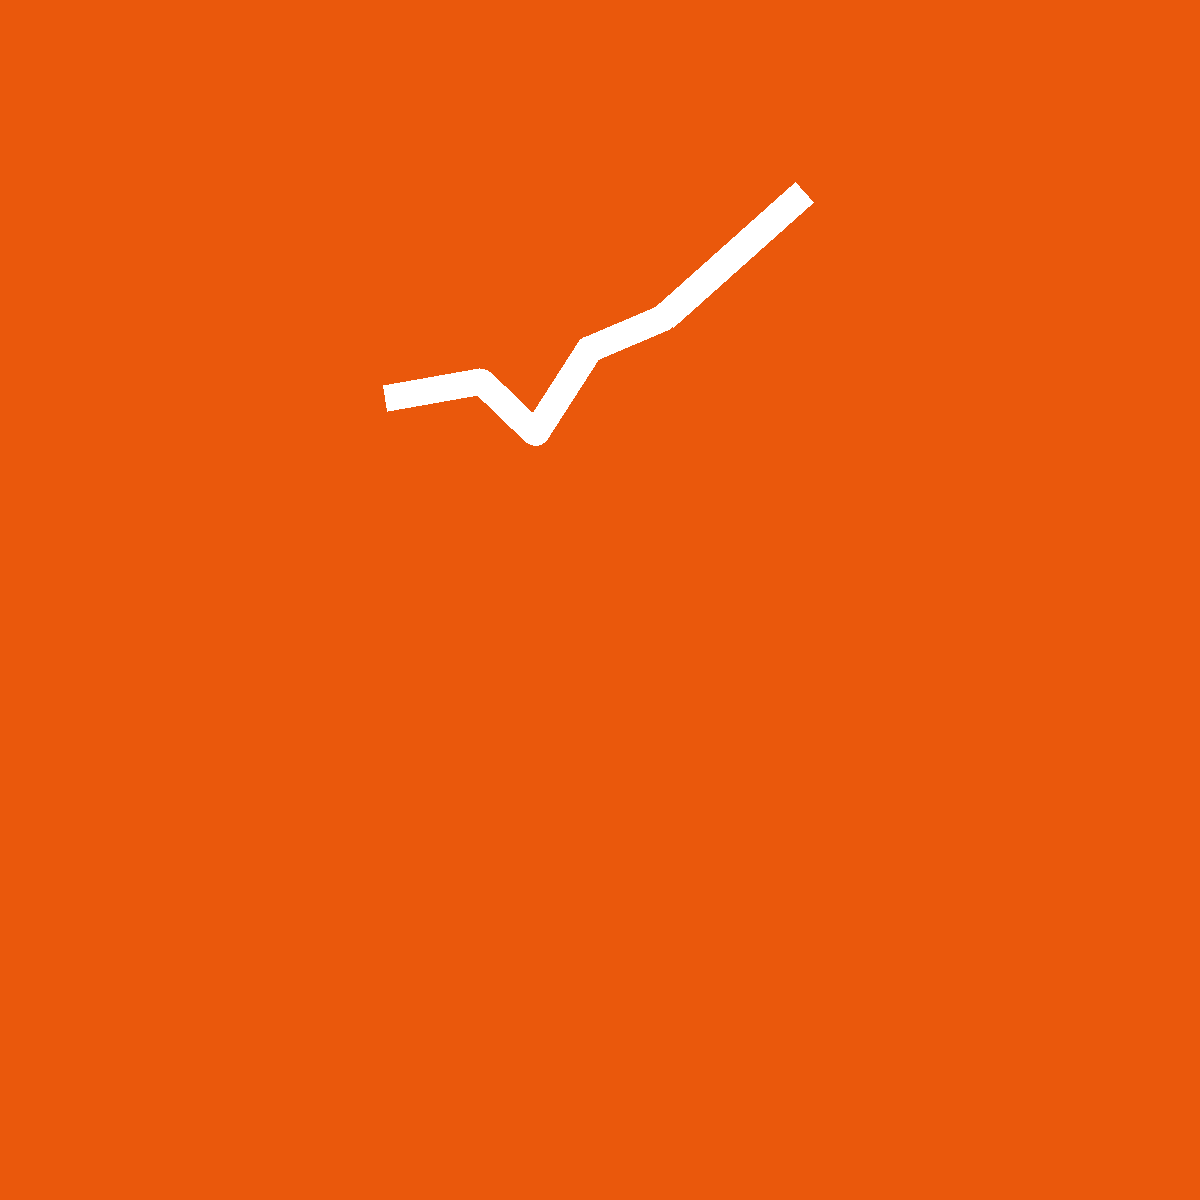
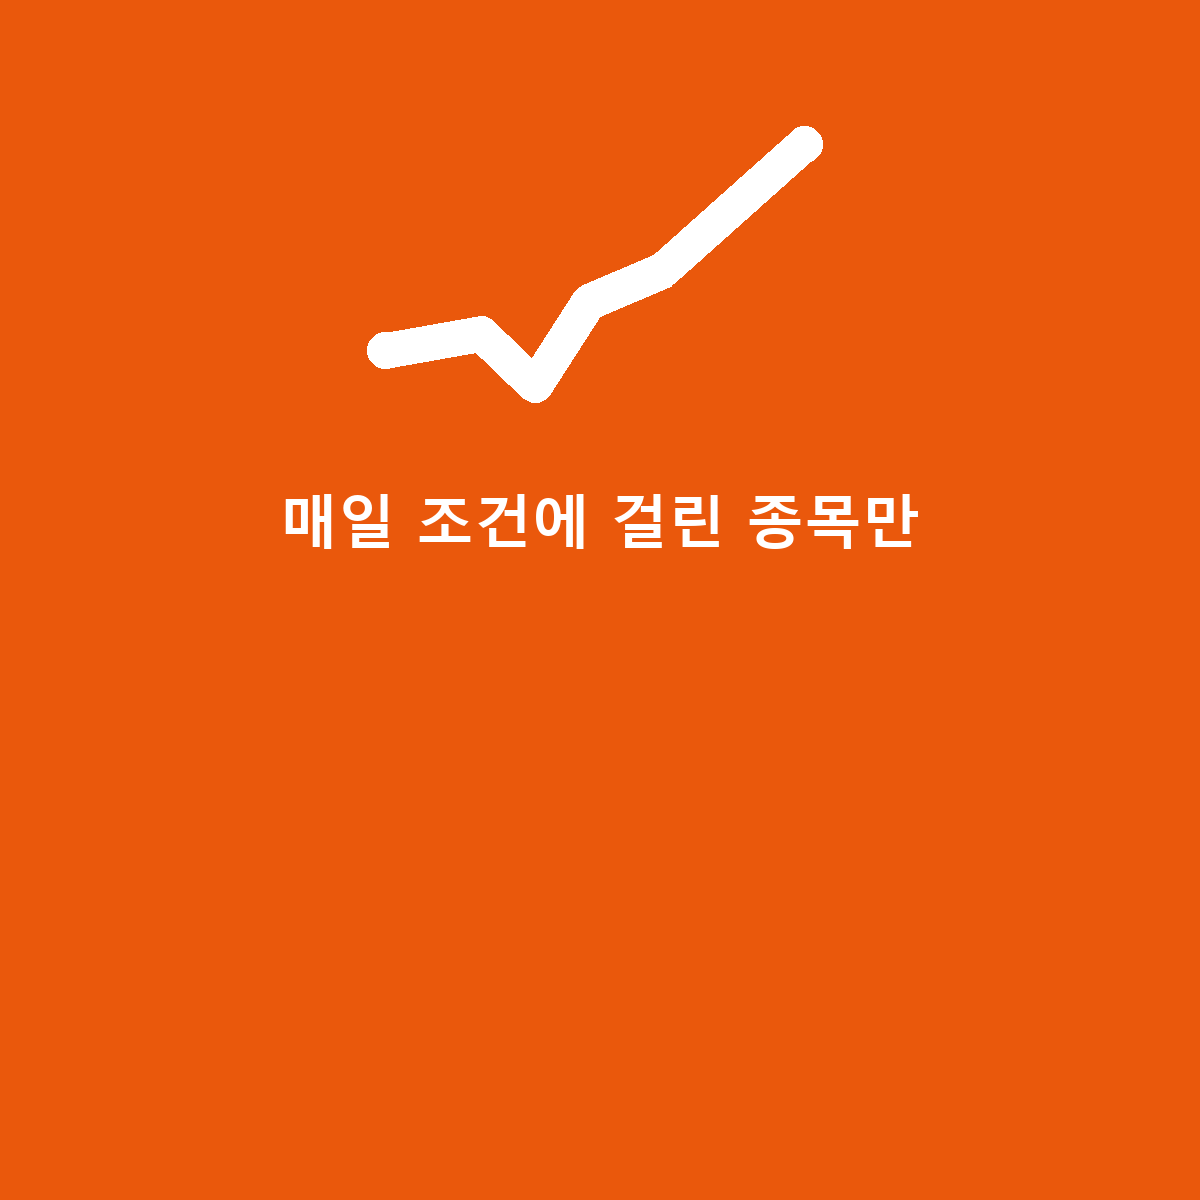
feat: 앱 커버에 한 줄 넣고 표식을 굵게 한다
표식만 두니 처음 온 사람이 무엇을 하는 곳인지 알려면 아래로 내려가야
했다. '매일 조건에 걸린 종목만' 한 줄을 넣는다.

소개 칸에 있는 문장을 그대로 쓰지 않는다. 커버 바로 아래가 소개라
같은 말이 두 번 나오면 읽는 사람이 두 번 읽게 된다.

표식 굵기를 0.13 에서 0.17 로 올린다. 앱이 커버에 어두운 막을 씌워서
흰 선이 회색으로 눌렸다. 색으로는 더 밝게 만들 수 없다. 앱 글자는 막
위에 그려지고 커버는 막 아래에 깔리기 때문이다. 면적으로 버티는 수밖에
없어 굵기를 올린다.

선 끝에 둥근 마감을 더한다. joint="curve" 는 이음매만 둥글게 하고 양
끝은 각진 채로 두어 잘린 것처럼 보였다.

Changed region(s): [[0.3083, 0.0925, 0.6783, 0.37], [0.2158, 0.4008, 0.4933, 0.4625], [0.5242, 0.4008, 0.7708, 0.4625]]

diff --git a/scripts/make_blog_images.py b/scripts/make_blog_images.py
@@ -5,7 +5,7 @@
 늘려 쓰면 글자가 뭉개지거나 잘리므로 자리마다 따로 그린다.
 
   타이틀      966x300   PC 블로그 홈 맨 위 띠
-  앱 커버     1200x1200 블로그 앱에서 처음 보이는 그림 (글자 없음)
+  앱 커버     1200x1200 블로그 앱에서 처음 보이는 그림
   프로필      이미 assets/avatar.png 에 있다 (make_avatar.py)
 
 **타이틀은 오른쪽 400px 가 비어야 한다.** 네이버가 그 자리에 블로그
@@ -35,6 +35,8 @@ BRAND = "종목노트"
 EYEBROW = "장 마감 후 매일 자동 계산"
 TAGLINE = "매일 조건에 걸린 종목만"
 FOOTER = "종목 추천이 아닙니다 · stage2.kr"
+# 앱 커버에 넣는 한 줄. 소개 칸과 겹치지 않게 짧게 둔다.
+COVER_LINE = "매일 조건에 걸린 종목만"
 
 # 네이버가 블로그 이름을 겹쳐 찍는 자리. 여기는 비워 둔다.
 NAME_ZONE = 400
@@ -44,7 +46,7 @@ DIVIDER = 3
 DIVIDER_COLOR = (214, 208, 197)
 
 
-def _mark(d, cx, cy, scale, color):
+def _mark(d, cx, cy, scale, color, thick=0.13):
     """아바타와 같은 표식 — 바닥을 다지다 위로 뚫고 나가는 선.
 
     프로필 사진과 배너에 같은 모양이 있어야 한 계정으로 읽힌다.
@@ -52,7 +54,12 @@ def _mark(d, cx, cy, scale, color):
     pts = [(-1.00, 0.18), (-0.55, 0.10), (-0.30, 0.34), (-0.05, -0.05),
            (0.30, -0.20), (0.95, -0.78)]
     xy = [(cx + x * scale, cy + y * scale) for x, y in pts]
-    d.line(xy, fill=color, width=max(6, int(scale * 0.13)), joint="curve")
+    w = max(6, int(scale * thick))
+    d.line(xy, fill=color, width=w, joint="curve")
+    # 끝을 둥글게 막아 선이 잘린 것처럼 보이지 않게 한다.
+    r = w / 2
+    for x, y in (xy[0], xy[-1]):
+        d.ellipse((x - r, y - r, x + r, y + r), fill=color)
 
 
 def title_image():
@@ -94,7 +101,7 @@ def title_image():
 def cover_image():
     """블로그 앱 커버. 1200x1200.
 
-    **글자를 넣지 않는다.** 앱이 커버 위에 블로그명·소개·방문수·프로필을
+    **블로그명을 넣지 않는다.** 앱이 커버 위에 블로그명·소개·방문수·프로필을
     직접 얹는다. 여기에 '종목노트'를 또 그리면 같은 글자가 두 번 나오고
     서로 겹친다. 실제로 그렇게 나왔다.
 
@@ -108,12 +115,24 @@ def cover_image():
     정사각으로 만드는 이유는 기기마다 잘리는 비율이 달라서다. 가로로 길게
     만들면 좁은 화면에서 좌우가 잘려 표식이 날아간다. 정사각에 여백을
     넉넉히 두면 어느 쪽으로 잘려도 표식이 남는다.
+
+    한 줄만 넣는다. 표식만 두면 처음 온 사람이 무엇을 하는 곳인지 알려면
+    아래로 내려가야 한다. 다만 소개 칸에 있는 말을 그대로 쓰면 같은 말을
+    두 번 읽게 되므로 짧은 쪽을 고른다.
+
+    표식은 흰색이 최선이다. 앱이 커버에 어두운 막을 씌워서 무슨 색을 써도
+    한 단계 눌리는데, 흰색이 가장 밝게 남는다. 크림으로 바꾸면 오히려 더
+    탁해진다. 대신 굵기를 올려 면적으로 버틴다.
     """
     S = 1200
     img = Image.new("RGB", (S, S), card.ACCENT)
     d = ImageDraw.Draw(img)
-    # 위에서 30% 지점. 아래는 앱 글자 자리로 비워 둔다.
-    _mark(d, S // 2, int(S * 0.30), 215, (255, 255, 255))
+    # 위에서 26% 지점. 아래는 앱 글자 자리로 비워 둔다.
+    _mark(d, S // 2, int(S * 0.26), 215, (255, 255, 255), thick=0.17)
+
+    f = card._font(True, 58)
+    w = d.textlength(COVER_LINE, font=f)
+    d.text(((S - w) / 2, int(S * 0.40)), COVER_LINE, font=f, fill=(255, 255, 255))
     return img
 
 
